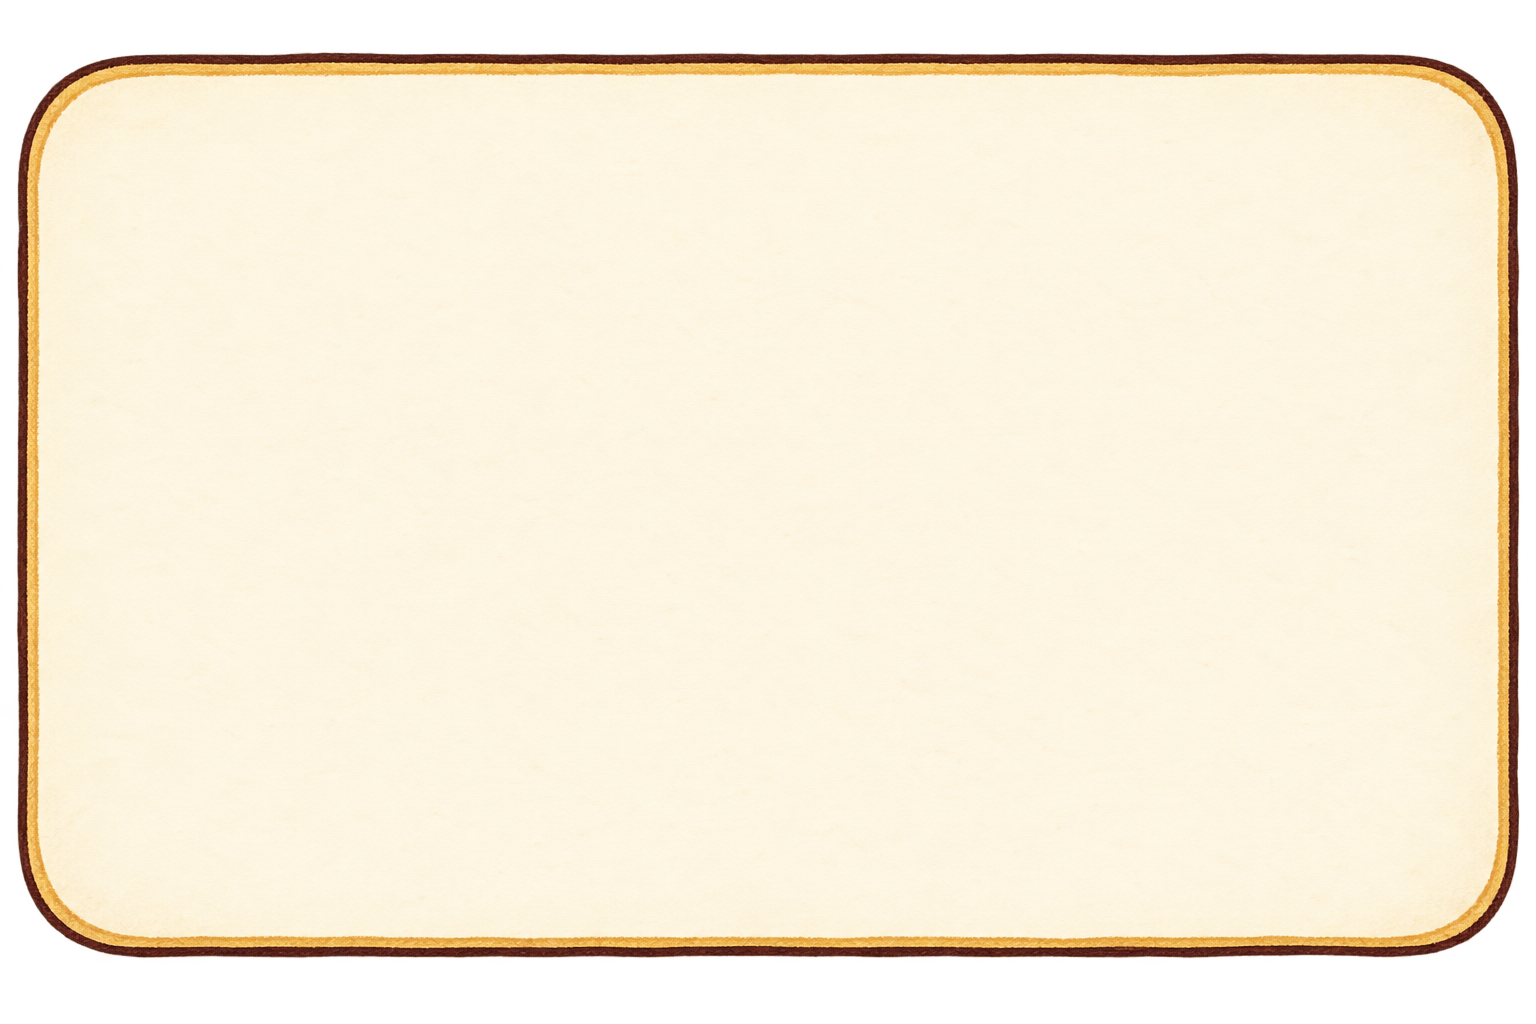
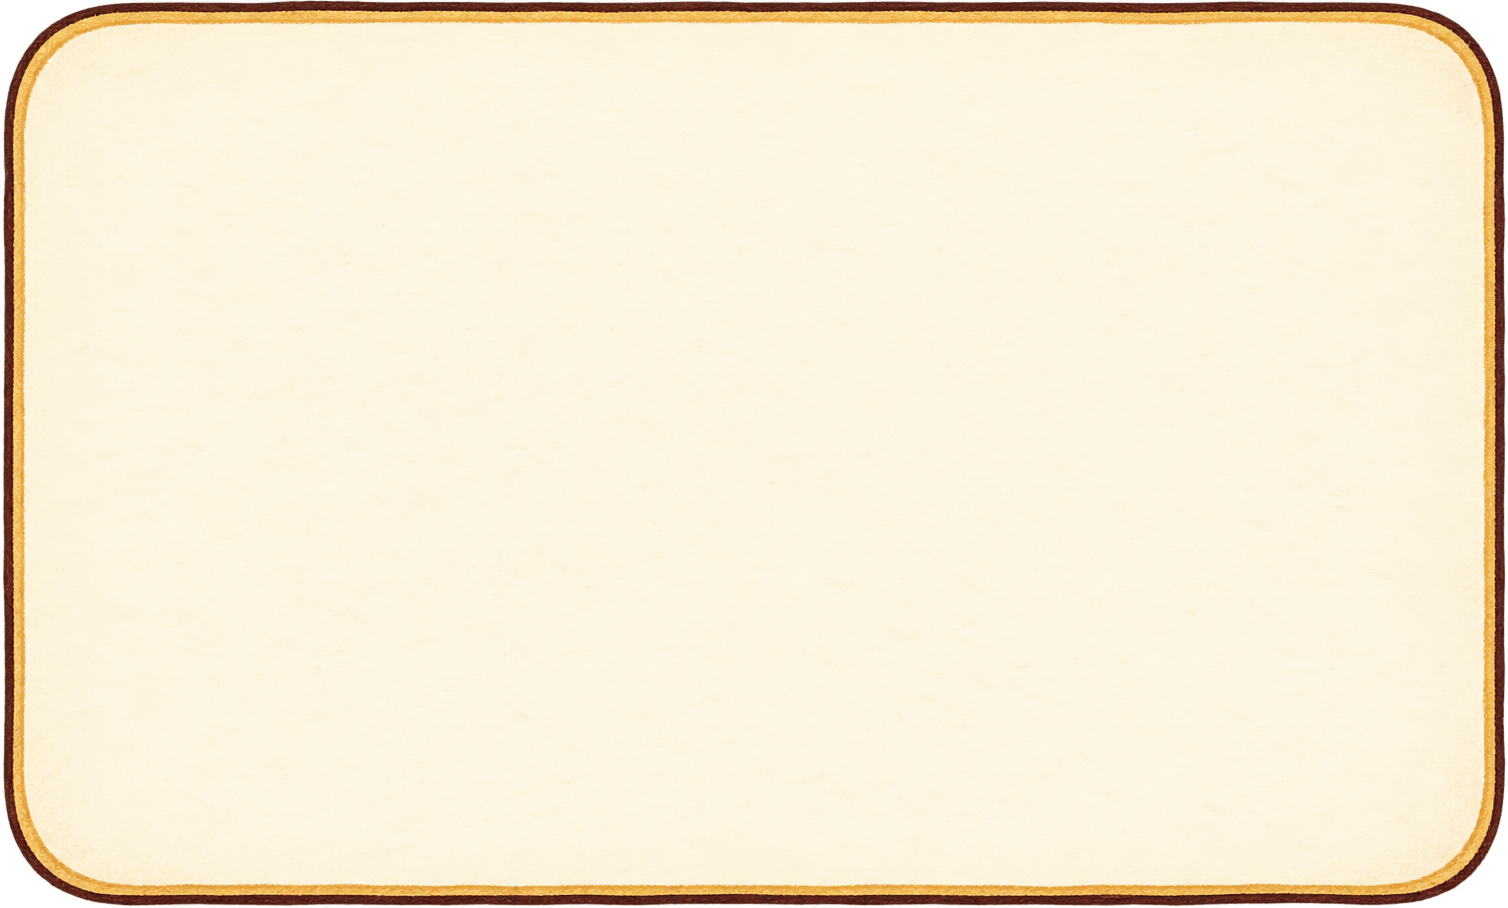
Crop the speech bubble paper to its edge and slice it outside the corners so no size bends them

Changed region(s): [[0.0, 0.0, 1.0, 1.0]]

diff --git a/index.html b/index.html
@@ -199,7 +199,7 @@ button.chip:disabled{cursor:default;box-shadow:none}
    Keep corner pixels fixed as dialogue grows; long copy scrolls while the controls stay visible. */
 .bubble{--bubble-top:44px;--bubble-frame:url(assets/ui/speech-paper-frame.png);--bubble-tail:url(assets/ui/speech-paper-tail-pencil.png);position:absolute;left:50%;top:var(--bubble-top);transform:translateX(-50%);z-index:5;display:flex;flex-direction:column;box-sizing:border-box;width:min(88%,380px);max-width:calc(100% - 32px);max-height:calc(100% - var(--bubble-top) - 112px);padding:24px 20px;font-family:var(--f-hand);font-size:17px;line-height:1.42;color:var(--ink);filter:drop-shadow(2px 4px 2px rgba(52,32,17,.2));animation:pop .25s ease-out}
 /* Opaque paper behind the translucent image slices prevents hairline seams inside the frame. */
-.bubble::before{content:"";position:absolute;inset:-8px -3px;z-index:-1;background-color:var(--bubble-paper,#FFF8E9);background-clip:padding-box;border:20px solid transparent;border-image:var(--bubble-frame) 100 fill / 22px / 0 stretch;pointer-events:none}
+.bubble::before{content:"";position:absolute;inset:0;z-index:-1;background-color:var(--bubble-paper,#FFF8E9);background-clip:padding-box;border:20px solid transparent;border-image:var(--bubble-frame) 150 190 fill / 33px 42px / 0 stretch;pointer-events:none}
 /* Keep the tail asset's transparent safety margin and aspect ratio, including the complete pencil-drawn V tip. */
 .bubble::after{content:"";position:absolute;left:50%;bottom:-14px;width:48px;height:30px;transform:translateX(-50%);background:var(--bubble-tail) center/contain no-repeat;pointer-events:none}
 .bubble-copy{min-height:0;overflow-y:auto;overscroll-behavior:contain;overflow-wrap:anywhere}
@@ -723,7 +723,7 @@ button.polaroid:active{transform:rotate(var(--tilt)) translateY(2px) scale(.98);
 .office.naming .office-det{opacity:0}
 .office-say{position:absolute;left:50%;top:7%;z-index:2;box-sizing:border-box;width:min(88%,360px);transform:translateX(-50%);padding:20px 18px 14px;font-family:var(--f-hand);font-size:17px;line-height:1.42;color:var(--ink);filter:drop-shadow(2px 4px 2px rgba(52,32,17,.2));animation:pop .25s ease-out}
 .office-say[hidden]{display:none}
-.office-say::before,.oh-say::before{content:"";position:absolute;inset:-8px -3px;z-index:-1;background-color:#FFF8E9;background-clip:padding-box;border:20px solid transparent;border-image:url(assets/ui/speech-paper-frame.png) 100 fill / 22px / 0 stretch;pointer-events:none}
+.office-say::before,.oh-say::before{content:"";position:absolute;inset:0;z-index:-1;background-color:#FFF8E9;background-clip:padding-box;border:20px solid transparent;border-image:url(assets/ui/speech-paper-frame.png) 150 190 fill / 33px 42px / 0 stretch;pointer-events:none}
 .office-say::after,.oh-say::after{content:"";position:absolute;left:50%;bottom:-14px;width:48px;height:30px;transform:translateX(-50%);background:url(assets/ui/speech-paper-tail-pencil.png) center/contain no-repeat;pointer-events:none}
 .office.naming .office-say{top:auto;bottom:17%}
 .office.naming .office-say::after{display:none}

diff --git a/design/detective-name.html b/design/detective-name.html
@@ -28,7 +28,7 @@ figcaption b{display:block;font-size:15px;margin-bottom:2px}
 
 /* speech bubble: the game's paper frame + pencil tail */
 .bubble{position:absolute;left:50%;top:46px;transform:translateX(-50%);width:262px;padding:20px 18px 14px;font-size:15px;line-height:1.42;filter:drop-shadow(2px 4px 2px rgba(52,32,17,.2))}
-.bubble::before{content:"";position:absolute;inset:-8px -3px;z-index:-1;background-color:#FFF8E9;background-clip:padding-box;border:20px solid transparent;border-image:url(../assets/ui/speech-paper-frame.png) 100 fill / 22px / 0 stretch}
+.bubble::before{content:"";position:absolute;inset:0;z-index:-1;background-color:#FFF8E9;background-clip:padding-box;border:20px solid transparent;border-image:url(../assets/ui/speech-paper-frame.png) 150 190 fill / 33px 42px / 0 stretch}
 .bubble::after{content:"";position:absolute;left:50%;bottom:-14px;width:44px;height:28px;transform:translateX(-50%);background:url(../assets/ui/speech-paper-tail-pencil.png) center/contain no-repeat}
 .bubble .ko{display:block;margin-top:6px;padding-top:6px;font-size:13px;font-weight:700;color:var(--berry)}
 .foot{display:flex;justify-content:flex-end;gap:6px;margin-top:10px}

diff --git a/assets/ui/README.md b/assets/ui/README.md
@@ -20,7 +20,8 @@ Actual transparent alpha background. ONLY the ink imprint. No paper sheet, white
 
 ### 말풍선
 
-- `speech-paper-frame.png` (1536×1024, 투명 바깥): 힌트·엔딩 공용 말풍선 본문. **Codex가 기본 내장 `image_gen` 도구로 생성**, Higgsfield·CLI 미사용. 기존 `buttons/cream-flat.png`는 재질 참조, `places/library-higgsfield-v2.png`는 화풍 참조로 사용했다. 따뜻한 아이보리 종이, 갈색 색연필선과 가는 황토색 안쪽 선, 장식 없는 읽기 영역이다. 생성 출력 `exec-19bb79b2-db66-495c-ad43-11e798066f23.png`를 알파 채널 그대로 복사했고 자르기·색 보정은 하지 않았다.
+- `speech-paper-frame.png` (1536×1024, 투명 바깥): 힌트·엔딩 공용 말풍선 본문. **Codex가 기본 내장 `image_gen` 도구로 생성**, Higgsfield·CLI 미사용. 기존 `buttons/cream-flat.png`는 재질 참조, `places/library-higgsfield-v2.png`는 화풍 참조로 사용했다. 따뜻한 아이보리 종이, 갈색 색연필선과 가는 황토색 안쪽 선, 장식 없는 읽기 영역이다. 생성 출력 `exec-19bb79b2-db66-495c-ad43-11e798066f23.png`를 알파 채널 그대로 복사했다(원본 보관 `speech-paper-frame-original.png`, 1536×1024).
+  - 2026-10-22 Claude 다시 자름(사용자 제보: 말풍선이 크기에 따라 일그러짐): 원본은 위 52·아래 64·좌우 14px가 투명 여백이고 모서리 곡선이 가로 약 170·세로 약 125px인데, 9조각을 사방 100px로 잘라 모서리 곡선이 변 조각에 걸려 함께 늘어났다. 종이 외곽 (14,52)–(1522,960)으로 잘라 1508×908로 만들고, CSS 조각을 위·아래 150 · 좌우 190px(모서리를 다 담음), 화면 두께 33px·42px(예전과 같은 0.22배), `inset:0`으로 바꿨다(`.bubble::before`, `.office-say::before`·`.oh-say::before`).
   - `.bubble::before`의 `border-image`로 **9조각 확장**한다. slice `100`, 표시 테두리 `22px`, 원본 투명 여백을 고려해 `inset:-8px -3px`. 모서리와 선 두께를 유지하고 가운데만 늘린다. 본문 폭은 `min(88%,380px)`이며 화면 높이에 따라 내용만 스크롤한다.
   - 이미지의 반투명한 안쪽 조각 경계에 얇은 선이 드러나지 않도록 `background-clip:padding-box`인 불투명 종이색 바탕을 함께 쓴다(`--bubble-paper`, 기본 `#FFF8E9`). 바깥 투명 모서리는 채우지 않는다. 말풍선 안의 영어·한국어·버튼 영역에는 구분선을 넣지 않고 여백만 둔다.
 - `speech-paper-tail-pencil.png` (1585×992, 투명): **현재 적용**. Codex가 내장 `image_gen`으로 편집. 원본 `exec-fe952193-7816-4263-b158-60420c65dc26.png`를 가공 없이 복사해 알파 유지. 직선 삼각형, 거친 갈색 연필 외곽·황토색 안쪽 선, 열린 윗변. 불투명 V 끝 아래 약 80px 여백이 있어 끝이 잘리지 않는다. `.bubble::after`의 48×30px 상자에서 `contain`, `bottom:-14px`로 배치한다. 본체는 그대로 9조각 확장, 꼬리 크기는 고정이다. 원본 색상 구간을 기준으로 축소 후 갈색 선 약 2.5–2.7px(본문 약 2.2px)로 확인했다. Higgsfield·CLI 미사용.

diff --git a/HANDOFF.md b/HANDOFF.md
@@ -404,7 +404,7 @@ node server.js            # http://localhost:5173/
 | 인덱스 탭 | `ui/tab-1.png` … `tab-6.png` | 흰 손그림 탭. CSS 마스크 + 곱하기로 인물 색을 입힌다 |
 | 손그림 아이콘 | `ui/icons-v2/*.png` (160×160) | Higgsfield 한 장(돋보기·카메라·도토리·여섯 인물 얼굴). 증거 탭 카메라, 힌트 도토리, 작은 얼굴(`miniSVG()` → `FACE_ICONS`: 인덱스 탭·지도 핀·지목·복습·단어장). 사건 브리핑 탭은 오소리 경사 얼굴 |
 | 심문 게이지 | `ui/magnifier-paper.png`, `ui/buttons/cream-flat.png`, `ui/buttons/honey-flat.png` | 돋보기는 내장 이미지 생성. 크림/갈색 종이 외곽과 꿀색 채움은 기존 버튼 질감 재사용 |
-| 말풍선 | `ui/speech-paper-frame.png`, `ui/speech-paper-tail-pencil.png` | 기본 이미지 생성 도구로 제작. 종이 본문은 9조각으로 확장하고 꼬리는 별도 고정 크기로 배치. 엔딩의 주장·반박·자백·마무리에 사용 |
+| 말풍선 | `ui/speech-paper-frame.png`, `ui/speech-paper-tail-pencil.png` | 기본 이미지 생성 도구로 제작. 종이 본문은 종이 외곽으로 잘라(1508×908) 9조각(위·아래 150, 좌우 190 = 모서리 전체)으로 확장해 어떤 크기에서도 모서리가 일그러지지 않는다(`ui/README.md`). 꼬리는 별도 고정 크기로 배치. 엔딩의 주장·반박·자백·마무리에 사용 |
 | 공용 닫기 | `ui/close-button.png` | 지도·증거 서랍·문법·홈에서 연 복습·범인 선택 창, 42px 손그림 버튼 |
 | COMPLETE 도장 | `ui/complete-stamp.png` | Higgsfield, 900×332 투명 PNG. 수평 원본, 회전·찍기 동작은 CSS. 이전 한글 `investigation-complete-stamp.png`는 미사용 |
 | 별 | `ui/star.png`, `ui/star-empty.png` | Higgsfield, 160×155. 사건 목록 사진 카드·복습 1단계 |
